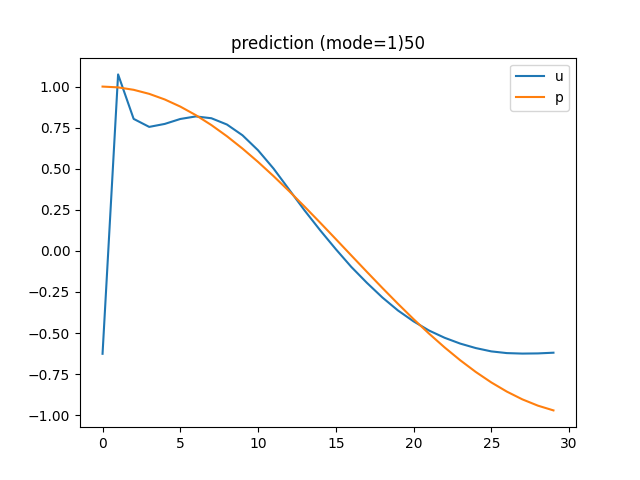
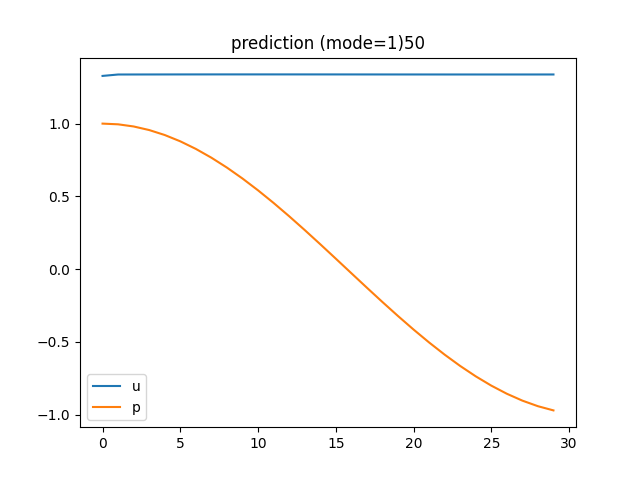
still need to debug

diff --git a/examples/main.py b/examples/main.py
@@ -33,7 +33,7 @@ parser = argparse.ArgumentParser()
 parser.add_argument('--rerun', type=eval, default=False, choices=[True, False])
 parser.add_argument('--dmd', type=eval, default=False, choices=[True, False])
 parser.add_argument('--fro', type=eval, default=False, choices=[True, False])
-parser.add_argument('--nepochs', type=int, default=1)
+parser.add_argument('--nepochs', type=int, default=80)
 parser.add_argument('--fro_steps', type=int, default=2)
 parser.add_argument('--cutoff', type=int, default=3000)
 parser.add_argument('--freq', type=int, default=50)
@@ -105,7 +105,8 @@ def get_estimation(network, fast_series, slow_value, shape, t_eval_fast):
     slow_calue_spanned = slow_value_squeezes.repeat(
         len(fast_series)).reshape(shape)
     features = torch.cat([slow_calue_spanned, fast_series], dim=1)
-    results = network(features.clone().detach())
+    results = network(None, features.clone().detach())[:, 2:]
+    # print(results.shape)
 
     estimation = torch.mean(kernels * results, 0)
     estimation_unsq = torch.unsqueeze(estimation, 0)
@@ -114,30 +115,22 @@ def get_estimation(network, fast_series, slow_value, shape, t_eval_fast):
 
 def get_fast_prediction(t_span, x0_fast_, x0_slow, fast_epochs, length_of_intervals, t_start, fast_step=1):
     dt = t_span[fast_step] - t_span[0]
+    # print(t_span.shape, t_span, length_of_intervals, t_start, x0_fast_)
     # print(t_span, length_of_intervals, t_start, dt.shape)
     x0_fast = x0_fast_
     predicted_series = [x0_fast]
     t_fast_eval = [t_start]
     features = torch.concat((x0_fast, x0_slow), dim=1)
     # print(x0_fast, t_span[0])
-    for i in range(length_of_intervals):
+    for i in range(length_of_intervals - 1):
         if args.solver == 'Euler':
             predicted = x0_fast.clone().detach() + dt*net_fast(features)
-            print(predicted)
         if args.solver == 'dopri5':
-            # solver = ode(net_fast)
-            # solver.set_integrator(args.solver)
-            # print(x0_fast, t_span[0].item())
-            # solver.set_initial_value(x0_fast, t_span[0].item())
-            # predicted = torch.tensor(solver.integrate(t_span[fast_step]))
-            # print(predicted)
             ts = torch.tensor([
-                t_span[0], t_span[fast_step]])
-            # print(x0_fast.shape, ts.shape)
-            predicted = odeint(net_fast, features, ts)
+                t_span[i], t_span[i+1]])
+            features = odeint(net_fast, features, ts)[1]
+            predicted = features[:, 2:]
         x0_fast = predicted
-        print(x0_fast, x0_slow)
-        print(x0_fast.shape, x0_slow.shape)
         features = torch.concat((x0_fast, x0_slow), dim=1)
         predicted_series = predicted_series + [predicted]
         t_fast_eval = t_fast_eval + [t_fast_eval[-1] + fast_step]
@@ -219,6 +212,7 @@ if args.data == 'multiscale':
     X = X_dict[0.001]
     X = torch.Tensor(X).to(device)
     t_span = torch.Tensor(t).to(device)
+    # print(t_span)
     cutoff = args.cutoff
     X = X[:, :cutoff]
     t_span = t_span[:cutoff]
@@ -244,11 +238,10 @@ class ODEfunc(nn.Module):
     def forward(self, t, x):
         # tt = torch.ones((1, 1)) * t
         # ttx = torch.cat([tt, x], 1)
-        slow, fast = x[:, :2], x[:, 2:]
+        slow, fast = x[:, :2].clone().detach(), x[:, 2:].clone().detach()
         out = self.linear_in(x)
         out = self.relu(out)
         out = self.linear_out(out)
-        print(slow, fast, out, x)
         if self.mode == 'fast':
             return torch.cat((slow, out), dim=1)
         else:
@@ -293,6 +286,7 @@ x0_fast = torch.unsqueeze(x0_fast, 0)
 x0_slow = torch.unsqueeze(x0_slow, 0)
 
 dt = t_span[args.length_of_intervals] - t_span[0]
+print(dt.shape, dt)
 losses = []
 times = []
 memory = []
@@ -308,7 +302,7 @@ for iter in range(args.nepochs):
         t_start = i*args.length_of_intervals
         t_interval_fast = t_span[t_start: t_start +
                                  args.fast_samples * args.fast_length_of_intervals]
-        x0_fast = X[[2, 3], t_start]
+        x0_fast = X[[2, 3], t_start]  # why?
         x0_fast = torch.unsqueeze(x0_fast, 0)
         # for the fast series part
         pred_fast, t_fast_eval = get_fast_prediction(t_interval_fast, x0_fast.clone().detach(), x0_slow.clone().detach(),
@@ -321,9 +315,15 @@ for iter in range(args.nepochs):
         scheduler_fast.step()
         print(
             str(i) + "th point: loss fast, iter["+str(iter)+"]", float(loss_fast))
-        estimation = get_estimation(net_slow, pred_fast.clone().detach(
-        ), x0_slow.clone().detach(), pred_fast.shape, torch.tensor(t_fast_eval))
+        estimation = get_estimation(net_slow, pred_fast.clone().detach(),
+                                    x0_slow.clone().detach(), pred_fast.shape, torch.tensor(t_fast_eval))
+        # if args.solver == 'Euler':
         predicted_slow = x0_slow.clone().detach() + dt*estimation
+        # if args.solver == 'dopri5':
+        #     ts = torch.tensor([
+        #         t_span[0], t_span[args.length_of_intervals]])
+        #     features = odeint(net_slow, estimation, ts)[1]
+        #     predicted_slow = features[:, 2:]
         x0_slow = predicted_slow
         predicted_slow_series = predicted_slow_series + [predicted_slow]
         t_slow_eval = t_slow_eval + [(i + 1)*args.length_of_intervals - 1]

diff --git a/torchdiffeq/_impl/odeint.py b/torchdiffeq/_impl/odeint.py
@@ -71,7 +71,6 @@ def odeint(func, y0, t, *, rtol=1e-7, atol=1e-9, method=None, options=None, even
 
     shapes, func, y0, t, rtol, atol, method, options, event_fn, t_is_reversed = _check_inputs(
         func, y0, t, rtol, atol, method, options, event_fn, SOLVERS)
-    print(method)
 
     solver = SOLVERS[method](func=func, y0=y0, rtol=rtol, atol=atol, **options)
 
